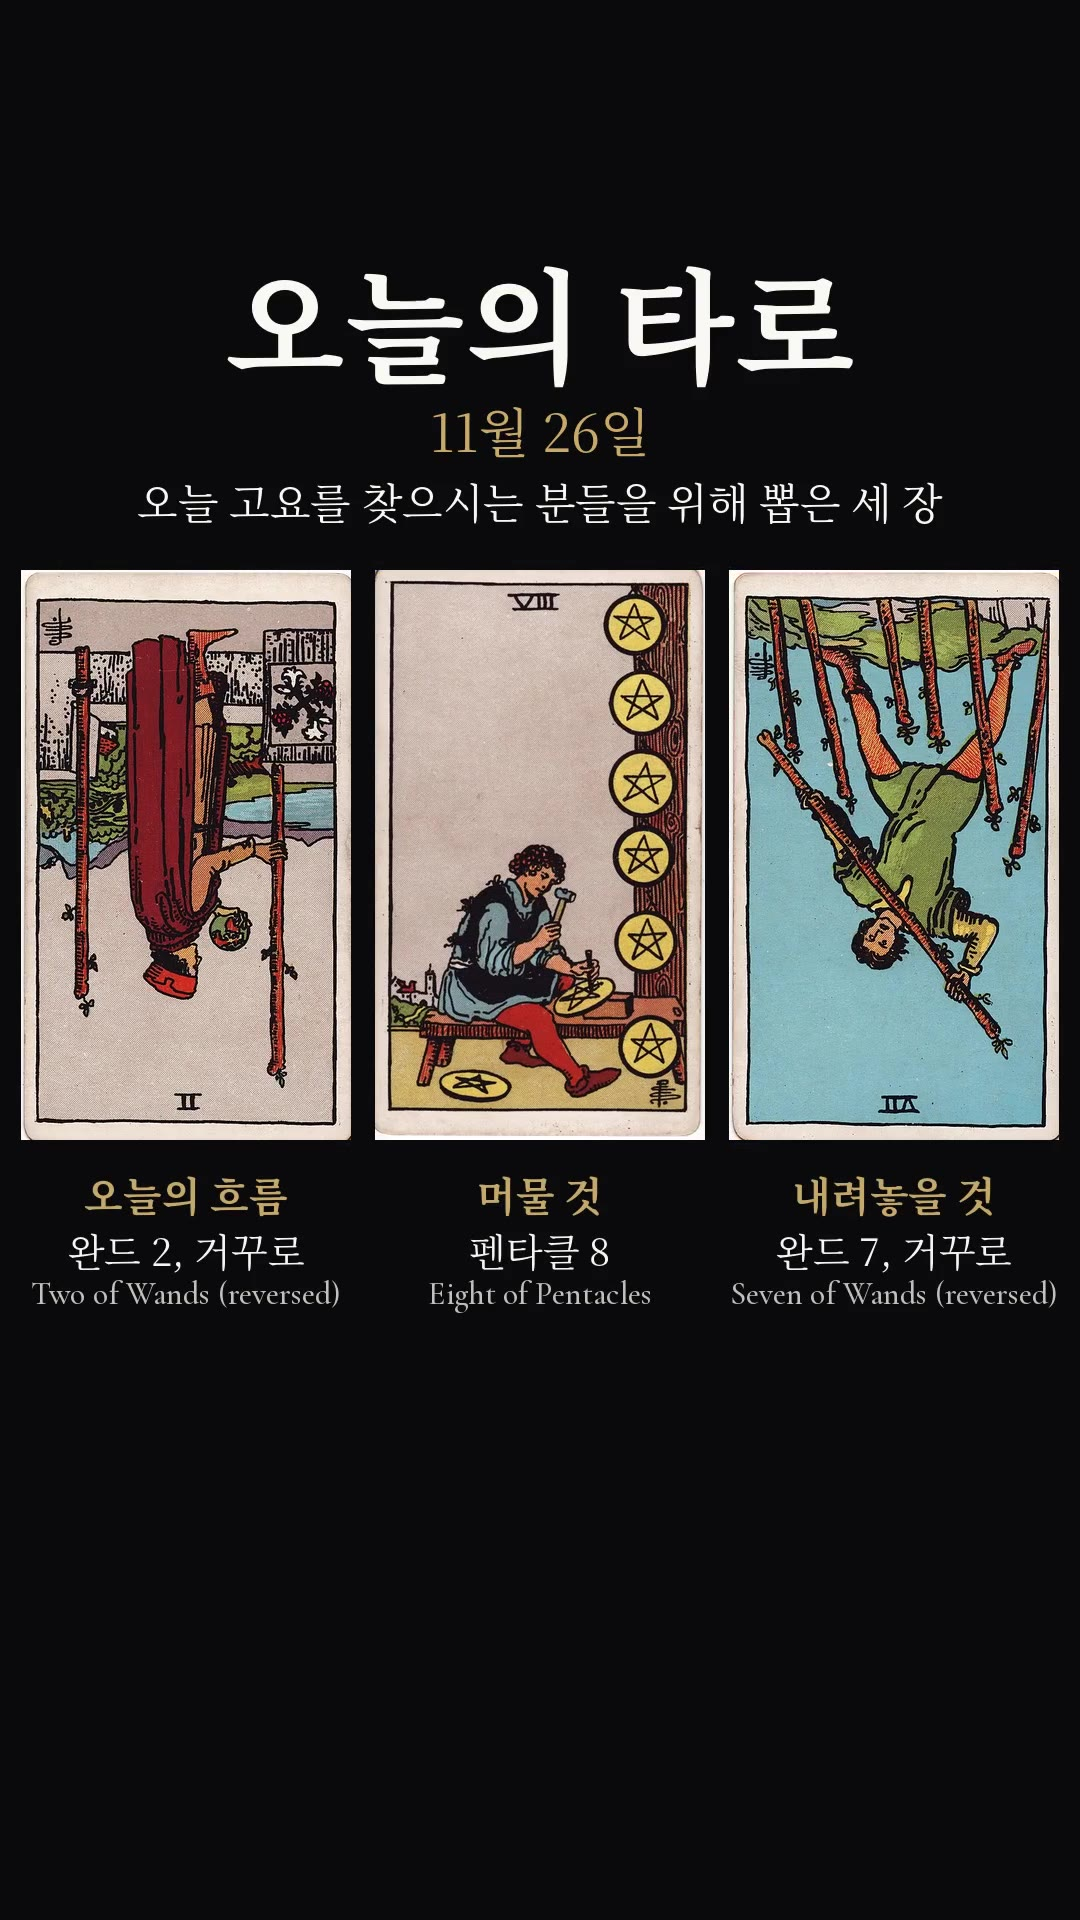
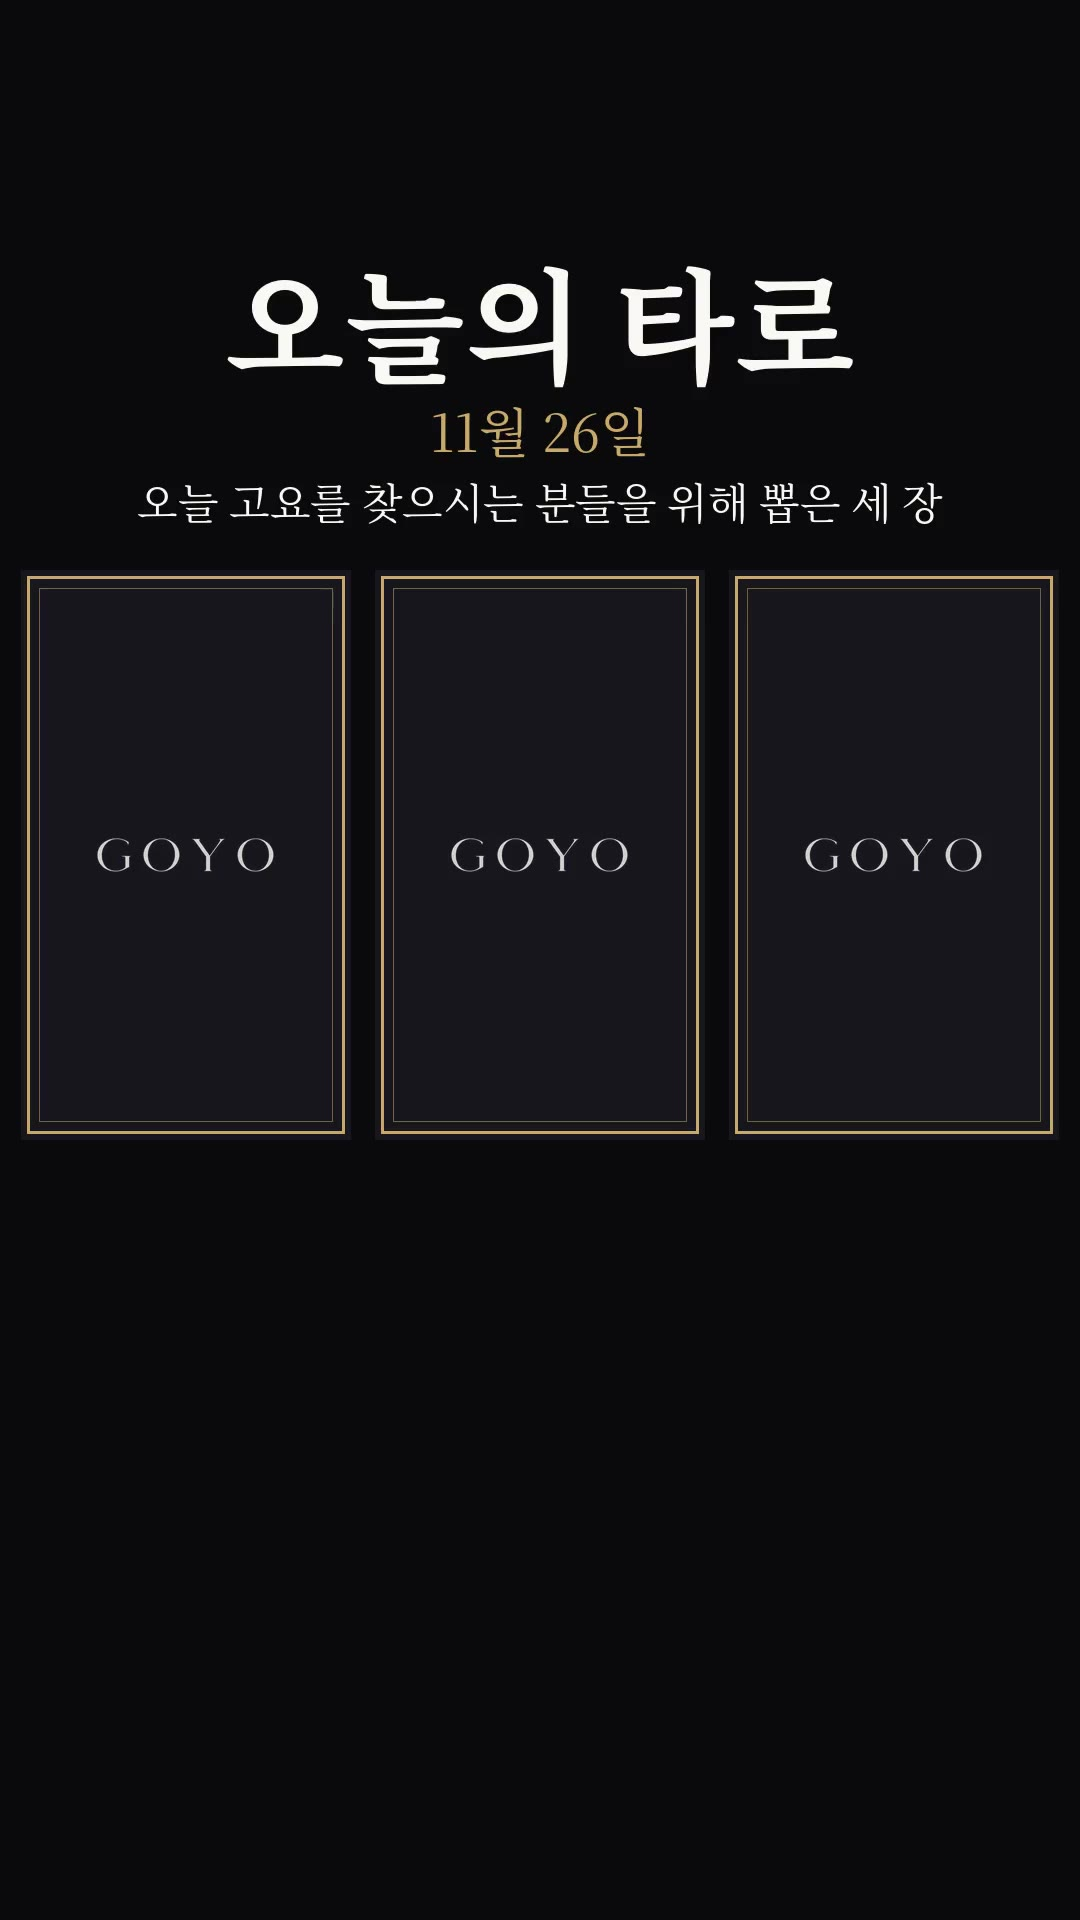
타로 쇼츠 썸네일: 세 장 모두 뒷면(0.6초)으로(미오 님 11/28). 11/22~28 썸네일 파일 다시 만듦
Claude-Session: https://claude.ai/code/session_01YKKUv71eYpAyDA2Y9GdyYv

Changed region(s): [[0.0, 0.2812, 1.0, 0.6875]]

diff --git a/tools/youtube/tarot_short.py b/tools/youtube/tarot_short.py
@@ -4,8 +4,9 @@
   python3 tools/youtube/tarot_short.py YYYY-MM-DD [check|all] [폴더]
 
  - 입력: posts/<날짜>-1000/ (make_reel_post.py 가 만든 short_yt.mp4, tarot.json)
- - 썸네일: short_yt.mp4 에서 카드 세 장이 모두 뒤집혀 이름까지 다 보이는 장면(THUMB_AT 초)을 잘라 short_thumb.jpg 로 만든다.
-   (2026-11-25 미오 님 결정: 카드 뒷면(reel_first.jpg)이 아니라 카드가 다 보이는 장면으로)
+ - 썸네일: short_yt.mp4 에서 카드 세 장이 모두 뒷면이라 그림이 안 보이는 장면(THUMB_AT 초)을 잘라 short_thumb.jpg 로 만든다.
+   (2026-11-28 미오 님: 「썸네일은 반드시 세 장 다 그림이 안 보이는 화면」. 11/25에 「카드가 다 보이는 장면」으로 잘못 옮겨 적혀
+    11/26~28 쇼츠가 앞면 썸네일로 나갔음 → 11/28 세 편 썸네일 바꿔 넣음)
  - 순서(반드시): ① 썸네일 없이 업로드(비공개+예약) → ② 영어 번역 넣기 → ③ 영상 처리가 끝날 때까지 기다린 뒤 다시 들어가 썸네일 넣기
    (썸네일을 먼저 넣으면 번역 뒤에 썸네일이 빠지는 일이 있었음, 11/21.
     API가 너무 빨라 처리 전에 넣으면 썸네일이 무시됨 → 처리 완료 확인 + THUMB_WAIT 초 더 쉰 뒤에 넣는다, 11/25 미오 님)
@@ -37,8 +38,8 @@ RK_EN = ['Ace', 'Two', 'Three', 'Four', 'Five', 'Six', 'Seven', 'Eight', 'Nine',
 POS_EN = ["Today's flow", 'What to keep', 'What to let go']
 MON = ['January', 'February', 'March', 'April', 'May', 'June', 'July', 'August', 'September', 'October', 'November', 'December']
 PLAYLIST_URL = 'https://www.youtube.com/playlist?list=PLRm375HI5ZcA'
-# tools/tarot/reel.py 기준: 세 번째 카드 이름까지 다 보이는 때 6.1초, 끝 장면으로 넘어가기 시작 7.5초(END)
-THUMB_AT = 7.0
+# tools/tarot/reel.py 기준: 첫 카드 뒤집기 시작 1.2초(T0) → 그 전은 세 장 모두 뒷면. 0.6초 = 제목·날짜 + 뒷면 세 장
+THUMB_AT = 0.6
 THUMB_WAIT = 90          # 처리 완료 확인 뒤 썸네일 넣기 전 추가로 쉬는 초
 
 
